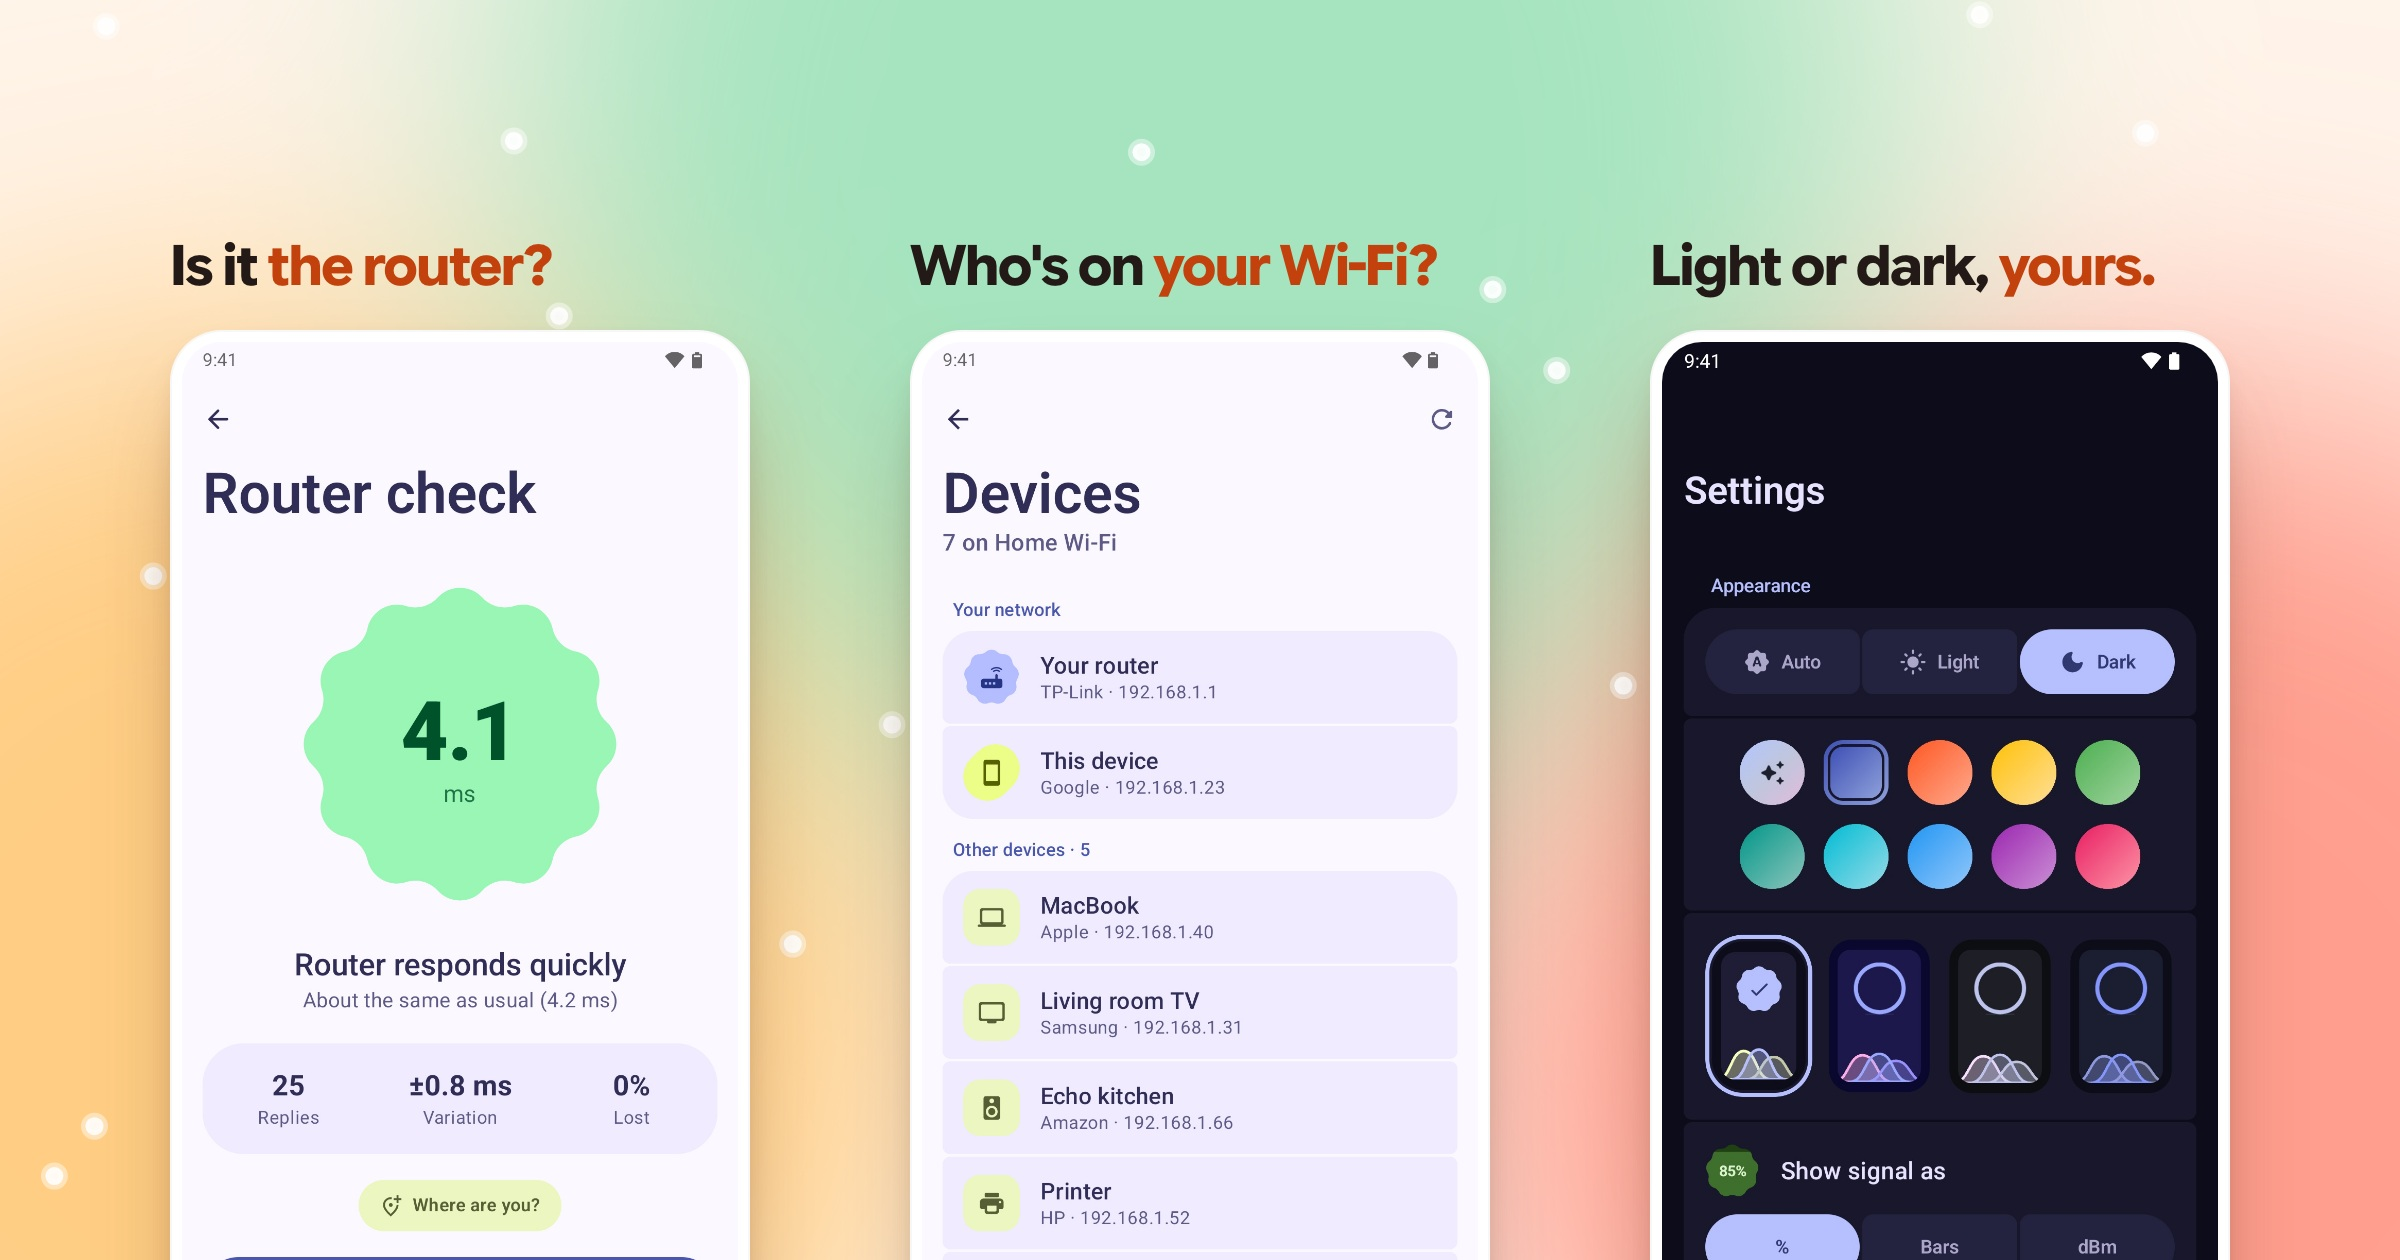
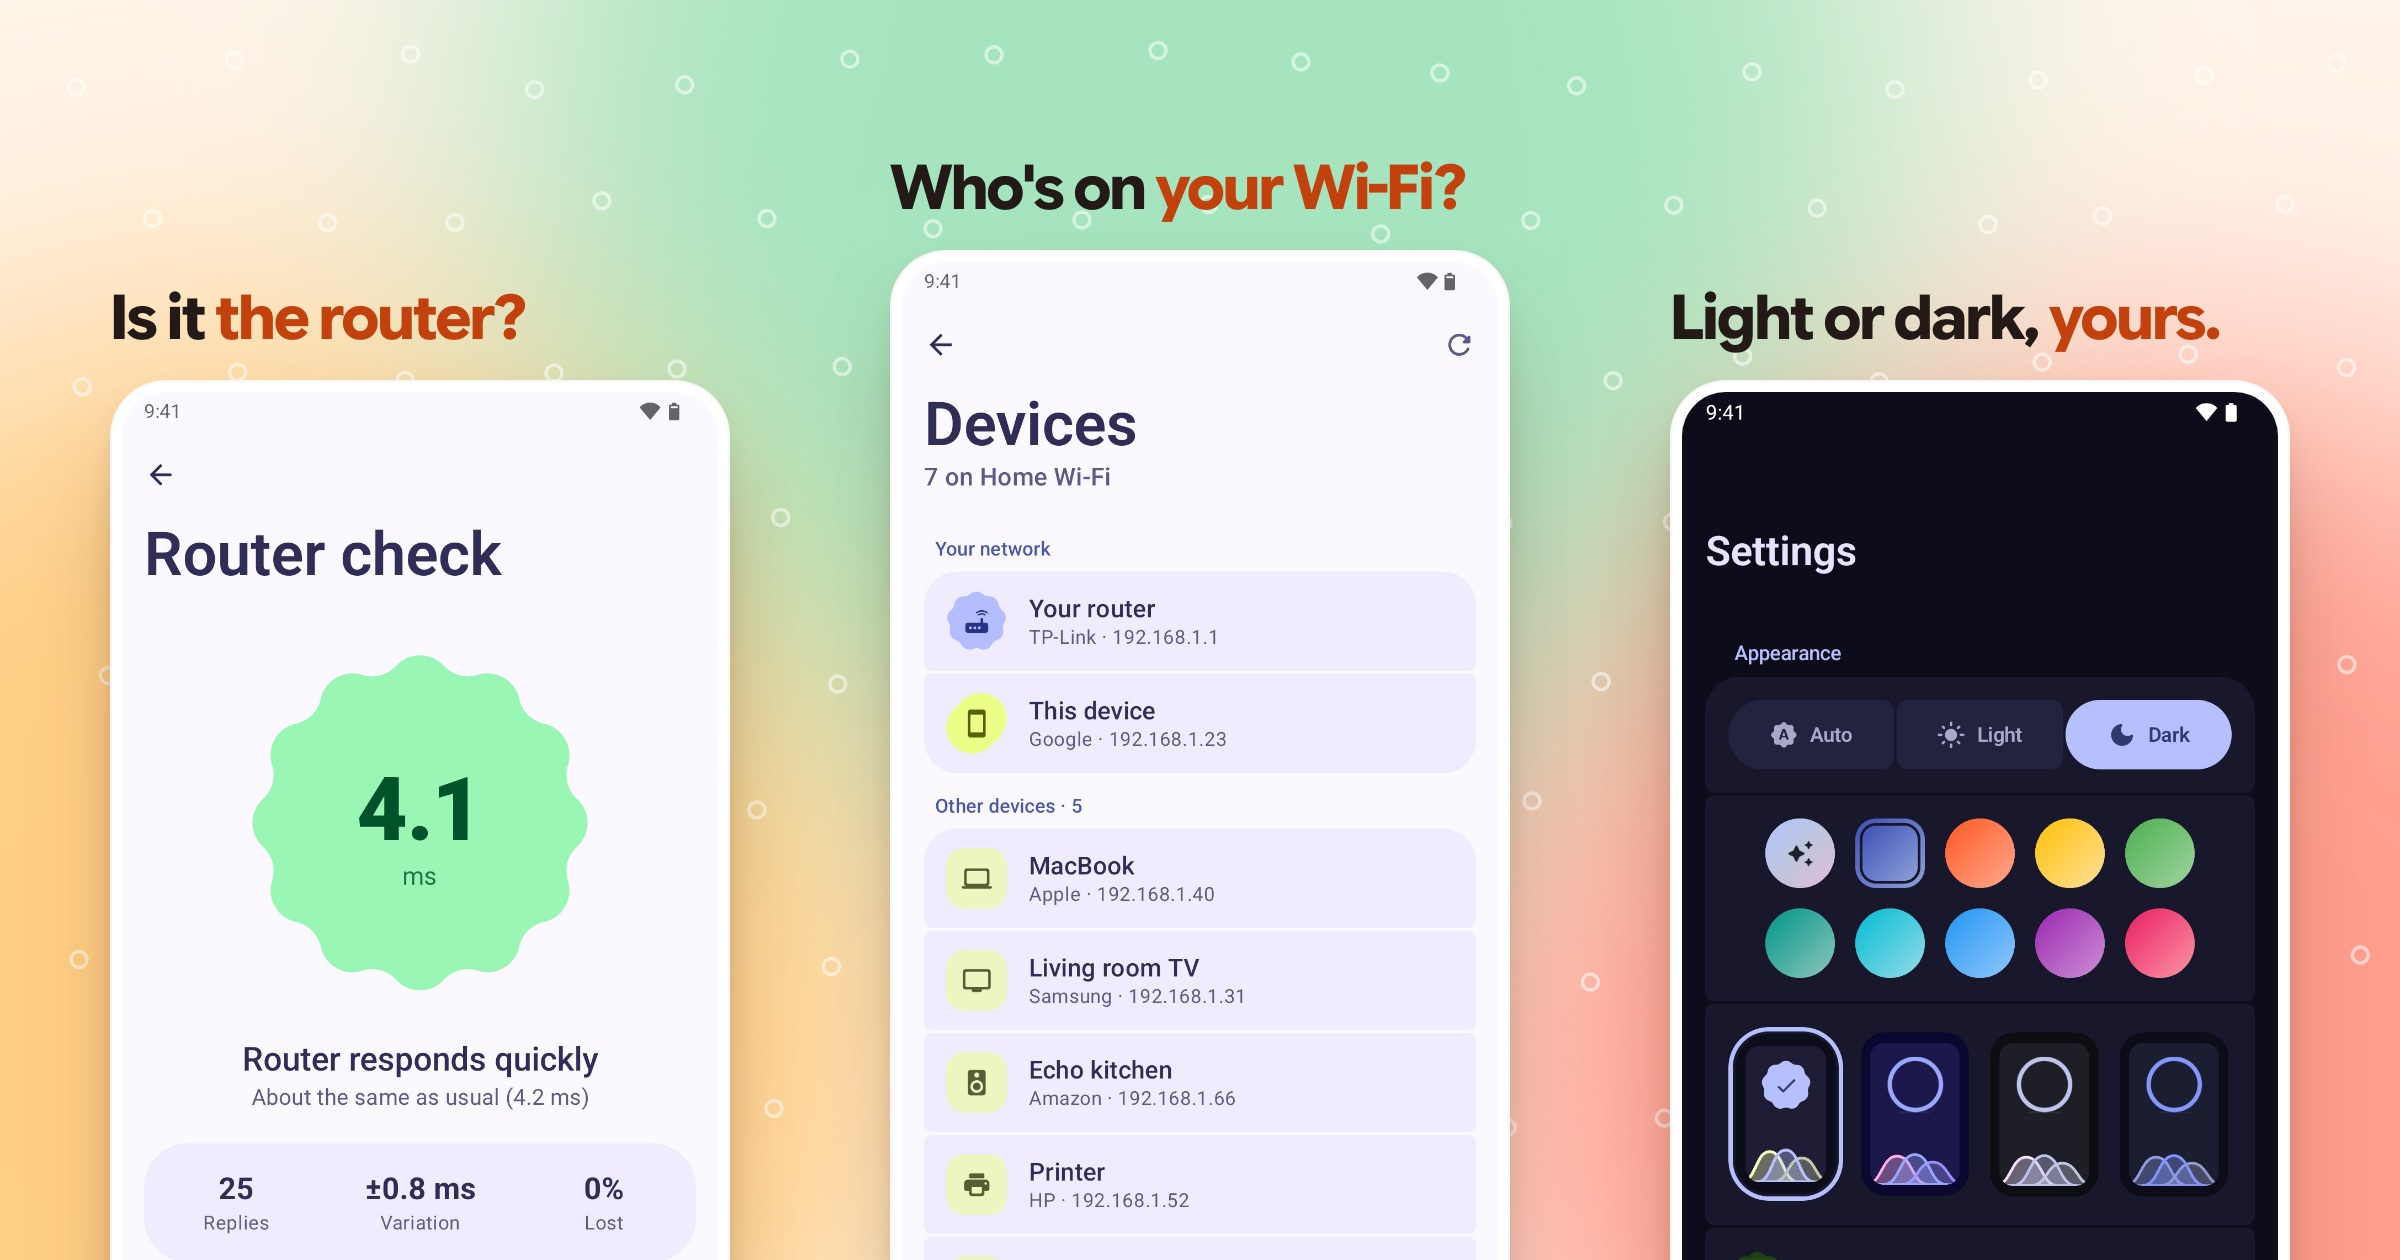
README: channels first, tools second with bigger staggered phones, the map last; map-point texture and bullets

Changed region(s): [[0.0, 0.0929, 0.9688, 1.0], [0.1875, 0.0929, 0.2188, 0.1238]]

diff --git a/store-listing/theme.js b/store-listing/theme.js
@@ -13,9 +13,11 @@ const cookie = (cx, cy, r, colour, label) => {
 // green, blurred like the map, with the map's reading points scattered over it.
 function heatField(W, H, slide) {
   const blobs = slide.field || [[.1, .2, '#ff8a78'], [.35, .85, '#ffc46b'], [.62, .25, '#ffd98a'], [.85, .8, '#6fd6a0'], [1.0, .15, '#8fe0b4']];
+  // The map's reading points: a loose grid, each point a small ring, exactly as the coverage map draws them.
   const next = random(W + (slide.file || '').length * 31);
   let dots = '';
-  for (let i = 0; i < 26; i++) dots += `<circle cx="${(next() * W).toFixed(1)}" cy="${(next() * H).toFixed(1)}" r="9" fill="#ffffff" fill-opacity=".9" stroke="#ffffff" stroke-opacity=".45" stroke-width="9"/>`;
+  for (let y = 70; y < H; y += 150) for (let x = 60 + (y / 150 % 2) * 75; x < W; x += 150)
+    dots += `<circle cx="${(x + (next() - .5) * 40).toFixed(1)}" cy="${(y + (next() - .5) * 40).toFixed(1)}" r="8" fill="none" stroke="#ffffff" stroke-opacity=".55" stroke-width="3.5"/>`;
   return `<defs><filter id="soft" x="-50%" y="-50%" width="200%" height="200%"><feGaussianBlur stdDeviation="160"/></filter></defs>
     <rect width="${W}" height="${H}" fill="#fff4ea"/><g filter="url(#soft)">${blobs.map(([x, y, c]) => `<circle cx="${W * x}" cy="${H * y}" r="${H * .55}" fill="${c}" fill-opacity=".8"/>`).join('')}</g>${dots}`;
 }

diff --git a/store-listing/theme.css b/store-listing/theme.css
@@ -67,10 +67,10 @@ header p{margin:30px 0 0;font-size:40px;line-height:1.25;font-weight:450;color:#
 .readme .wide header p{margin:18px auto 0;font-size:38px}
 .readme .wide .slate{--bezel:16px;--radius:44px;left:200px;top:380px;width:1560px}
 .readme .wide .front{--bezel:12px;--radius:58px;left:1640px;top:470px;width:500px;z-index:4}
-/* Trio: three phones side by side at one size, each under its own short headline, like the store cards. */
-.readme .trio .device{--bezel:12px;--radius:58px;top:330px;width:580px}
-.readme .trio .one{left:170px}
-.readme .trio .two{left:910px}
-.readme .trio .three{left:1650px}
-.readme .trio .device-label{transform:translateY(calc(-100% - 34px));text-align:left;font-size:56px;line-height:1.05;font-weight:720;letter-spacing:-.025em;color:var(--ink)}
+/* Trio: three phones in a staggered rhythm, the middle one raised, each under its own short headline. */
+.readme .trio .device{--bezel:12px;--radius:60px;width:620px}
+.readme .trio .one{left:110px;top:380px}
+.readme .trio .two{left:890px;top:250px}
+.readme .trio .three{left:1670px;top:380px}
+.readme .trio .device-label{transform:translateY(calc(-100% - 30px));text-align:left;font-size:62px;line-height:1.02;font-weight:720;letter-spacing:-.03em;color:var(--ink)}
 .readme .trio .device-label em{font-style:normal;color:#c2410c}

diff --git a/README.md b/README.md
@@ -12,15 +12,7 @@ A Wi-Fi analyzer for Android 8.0 and newer.</p>
 </p>
 
 <p align="center">
-  <img src="store-listing/en-US/readme/big-screen.jpg" width="100%" alt="Find your weak spots: a coverage map of a home from weak red to strong green on a tablet, and the Rooms screen comparing saved readings">
-</p>
-
-Tap where you stand and the map fills in from red to green. Save a reading in each room to see which one wins, and recheck after moving your router.
-
-## See what overlaps
-
-<p align="center">
-  <img src="store-listing/en-US/readme/channels.jpg" width="100%" alt="Every nearby network as channel waves on a tablet, with the signal history of a walk through a weak spot on a phone">
+  <img src="store-listing/en-US/readme/channels.jpg" width="100%" alt="Pick a quiet channel: every nearby network as channel waves on a tablet, with the signal history of a walk through a weak spot on a phone">
 </p>
 
 Every nearby 2.4, 5 and 6 GHz network as a wave, so crowded channels are obvious. Get a suggested channel, or switch to history and watch each signal as you move.
@@ -31,7 +23,18 @@ Every nearby 2.4, 5 and 6 GHz network as a wave, so crowded channels are obvious
   <img src="store-listing/en-US/readme/tools.jpg" width="100%" alt="Router check answering in 4.1 ms, the devices on your Wi-Fi, and dark-mode appearance settings">
 </p>
 
-Check how fast your router answers, see every device on your Wi-Fi, and make it yours with light and dark, wallpaper colors and four styles.
+- **Check your router.** How fast it answers, how steady, and whether replies go missing.
+- **Meet your network.** Every device on your Wi-Fi, then ping, DNS lookups and port checks.
+- **Make it yours.** Light or dark, wallpaper colors, four styles, and percent, bars or dBm.
+- **Room for tablets.** Graphs and lists sit side by side on tablets and foldables.
+
+## Find where Wi-Fi gets weak
+
+<p align="center">
+  <img src="store-listing/en-US/readme/big-screen.jpg" width="100%" alt="Find your weak spots: a coverage map of a home from weak red to strong green on a tablet, and the Rooms screen comparing saved readings">
+</p>
+
+Tap where you stand and the map fills in from red to green. Save a reading in each room to see which one wins, and recheck after moving your router.
 
 ## Private by design
 
